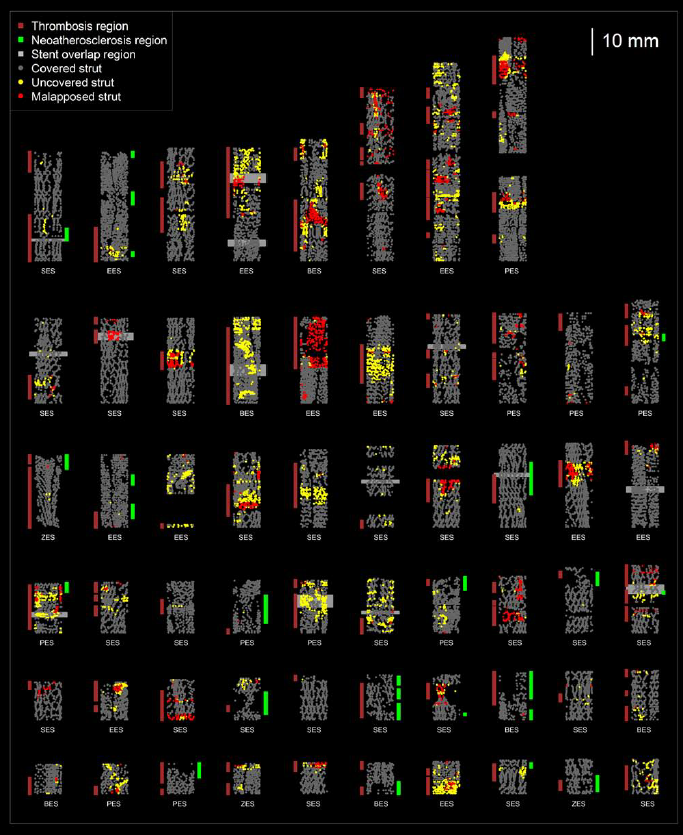
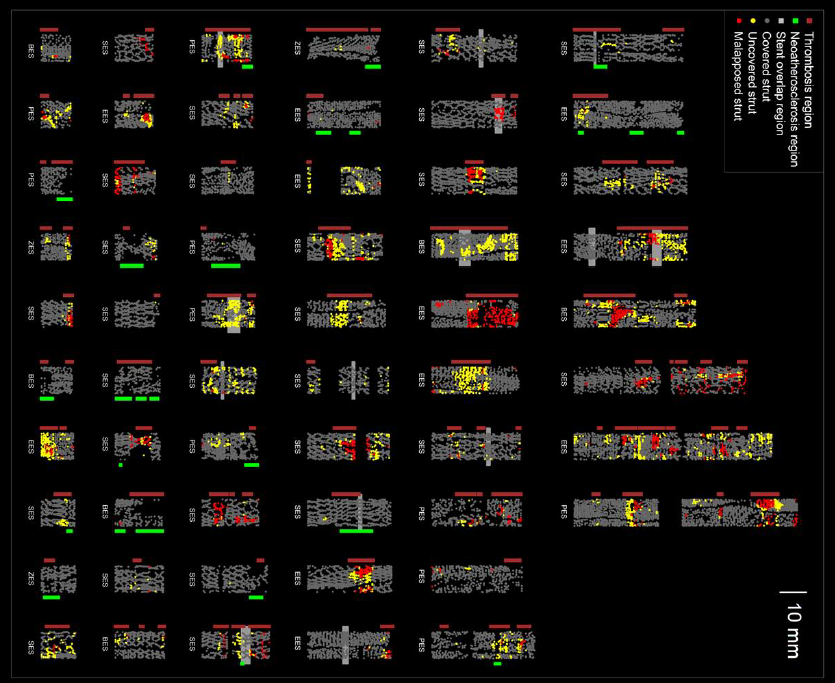
added content

diff --git a/pages/more.js b/pages/more.js
@@ -8,11 +8,14 @@ projects.append(
 
         "Detecting Peat in Horticultural Substrates",
 
-        `Peatland drainage drives biodiversity loss, highlighting the need for reliable peat monitoring in commercial substrates.
+        `
+        Peatland drainage drives biodiversity loss, highlighting the need for reliable peat monitoring in commercial substrates.
         This project, funded by FOEN and conducted by Uni Neuchâtel and METAS, developed a
         decision support system to detect peat-specific testate amoebae in microscopy images.
         I led key technical workflows and developed a data augmentation procedure, a YOLO-based ensemble model 
-        and integrated this to a decision support system.`,
+        and integrated this to a decision support system.
+        `,
+
         [
             {
                 text: "Methods Article",
@@ -28,14 +31,13 @@ projects.append(
         "../pics/peat.png"
     ),
 
-    // Add more epidemiology projects here
 
     createProject(
 
-        "Project Providence - Ecological Nonitoring",
+        "Project Providence - Ecological Monitoring",
 
-
-        `Project Providence monitors the ecological health of the Amazon rainforest through acoustic monitoring.
+        `
+        Project Providence monitors the ecological health of the Amazon rainforest through acoustic monitoring.
         Launched in 2016 by the Mamirauá Institute and the Laboratory of Applied Bioacoustics, the project 
         applies machine learning to large-scale bioacoustic data.
         I coordinated key workflows, including data annotation, custom annotation tool 
@@ -64,7 +66,8 @@ projects.append(
 
         "Cardiology & Intracoronary Imaging",
 
-        `I supported cardiology research involving intracoronary imaging, dedicated statistician for multiple research projects.
+        `
+        I supported cardiology research involving intracoronary imaging, dedicated statistician for multiple research projects.
         I worked closely with cardiologists to translate clinical research questions into appropriate analytical approaches, 
         developing tailored data preparation and statistical methods to address specific research questions.
         `,
@@ -75,18 +78,44 @@ projects.append(
                 url: "https://scholar.google.com/citations?user=knRLdEUAAAAJ&hl",
                 external: true
             },
-            // {
-            //     text: "Application",
-            //     url: "https://www.nature.com/articles/s41598-023-36518-1?error=cookies_not_supported&code=86a39bf5-5739-42b5-b65a-8abf0aa50f6c",
-            //     external: true
-            // }
+            {
+                text: " ",
+                url: " ",
+                external: true
+            }
         ],
-        "../pics/screenshot_cardio.png"
+        "../pics/screenshot_cardio_small.png"
+    ),
+
+
+    createProject(
+
+        "Bird Monitoring with Radar",
+
+        `
+        Early in my career, I supported researchers and conservation professionals in developing analytical 
+        methods to process large volumes of radar data, identify bird signatures and quantify migration 
+        patterns over extended periods. This work involved close collaboration with domain specialists 
+        and contributed to both ecological research and applied environmental impact assessments.
+        `,
+
+        [
+            {
+                text: "Methods Article",
+                url: "https://royalsocietypublishing.org/rsif/article-abstract/5/26/1041/65397/Automatic-identification-of-bird-targets-with?redirectedFrom=fulltext",
+                external: true
+            },
+            {
+                text: "Application",
+                url: "https://nsojournals.onlinelibrary.wiley.com/doi/10.1111/ecog.04025",
+                external: true
+            }
+        ],
+        "../pics/screenshot_radar.png"
     ),
 
 
 
-   
 
 );
 

diff --git a/pages/about.html b/pages/about.html
@@ -15,8 +15,8 @@
             <div class="nav-title">
                 <img src="../pics/z_logo_blue_mini.png" alt="Logo">
                 S. Zaugg • Data Analytics & Insights
-            </div>    
-            <a href="about.html" class="active" aria-current="page">About</a>        
+            </div>
+            <a href="about.html" class="active" aria-current="page">About</a>
             <a href="stats.html">Stats & ML</a>
             <a href="epi.html">Epidemiology</a>
             <a href="more.html">Research</a>
@@ -41,6 +41,30 @@
         <br>
 
         <div>
+            <a href="https://github.com/sergezaugg" target="_blank" rel="noopener noreferrer">
+                GitHub
+            </a>
+        </div>
+
+        <br>
+
+        <div>
+            <a href="https://share.streamlit.io/user/sergezaugg" target="_blank" rel="noopener noreferrer">
+                Streamlit Community Cloud
+            </a>
+        </div>
+
+        <br>
+
+        <div>
+            <a href="https://connect.posit.cloud/serge-zaugg" target="_blank" rel="noopener noreferrer">
+                Posit Connect Cloud
+            </a>
+        </div>
+
+        <br>
+
+        <div>
             <a href="https://www.linkedin.com/in/dkifh34rtn345eb5fhrthdbgf45/" target="_blank"
                 rel="noopener noreferrer">
                 Linkedin
@@ -50,13 +74,11 @@
         <br>
 
         <div>
-            <a href="https://github.com/sergezaugg" target="_blank" rel="noopener noreferrer">
-                GitHub
+            <a href="https://scholar.google.com/citations?user=knRLdEUAAAAJ&hl" target="_blank"
+                rel="noopener noreferrer">
+                G-scholar
             </a>
         </div>
-
-
-
 
     </main>
 </body>
